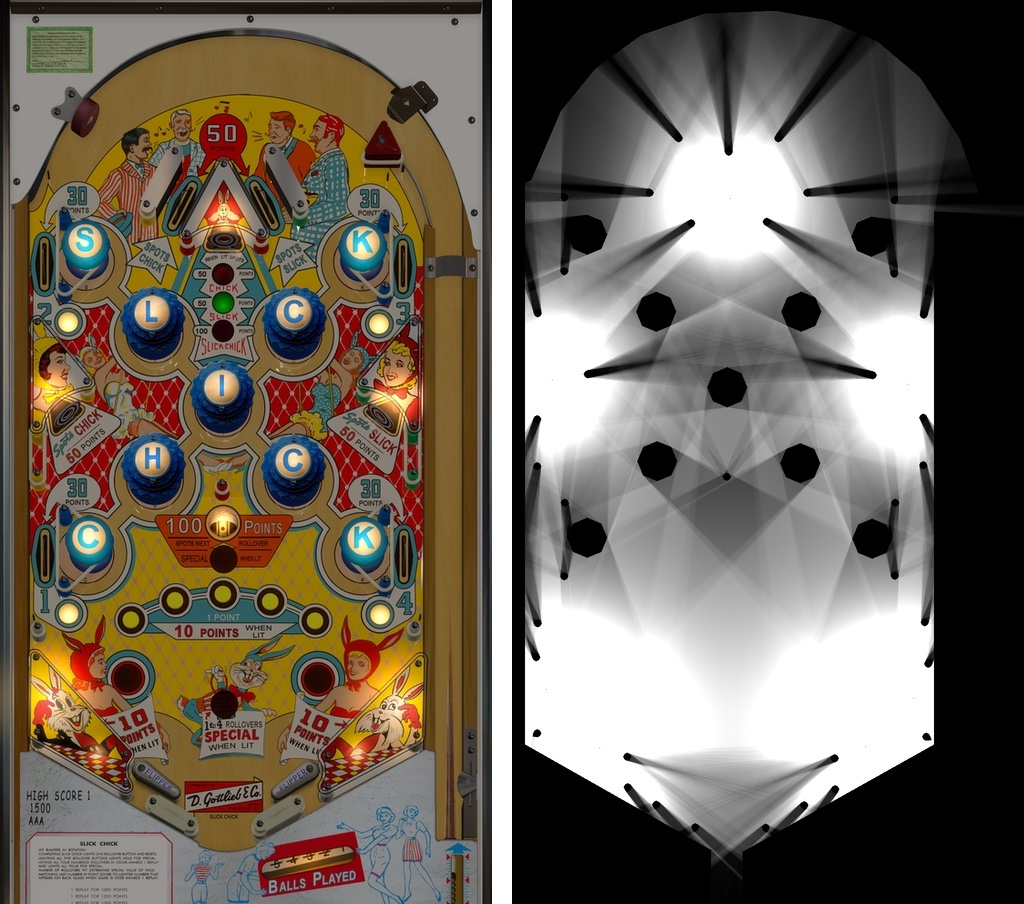
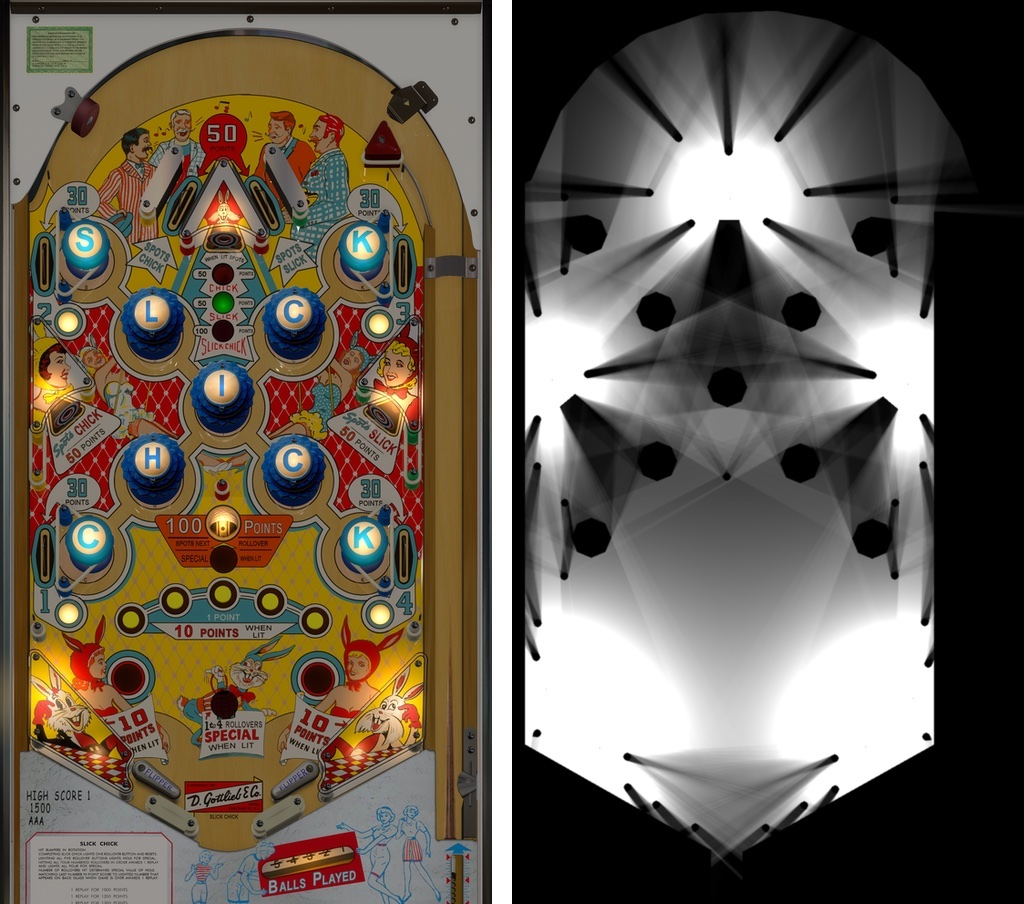
Fixed shadows.

Changed region(s): [[0.5312, 0.2168, 0.875, 0.8982], [0.5312, 0.3407, 0.5625, 0.3717], [0.5, 0.8053, 0.5312, 0.8363]]

diff --git a/Shadowdrome/Obstacle.c b/Shadowdrome/Obstacle.c
@@ -128,6 +128,103 @@ Obstacle *obstacleCreateRectangluarPrism (double x0, double y0, double x1, doubl
 	return obstacle;
 }
 
+Obstacle *obstacleCreateRotatedRectangularPrism (double x, double y, double width, double height, double rotationDegrees) {
+	Obstacle *obstacle = malloc (sizeof(Obstacle));
+	obstacle->xLoc = x;
+	obstacle->yLoc = y;
+	
+	obstacle->minX = x;
+	obstacle->minY = y;
+	obstacle->maxX = x;
+	obstacle->maxY = y;
+	
+	obstacle->numVertices = 4;
+	obstacle->vertexArray = malloc (sizeof(double) * obstacle->numVertices * 2);
+	double *vertexPtr = obstacle->vertexArray;
+	double angle = rotationDegrees / 180.0 * M_PI;
+	
+//	x' = x * cos(theta) - y * sin(theta)
+//	y' = x * sin(theta) + y * cos(theta)
+	
+	double xV = ((width / 2.0) * cos (angle)) - ((-height / 2.0) * sin (angle));
+	double yV = ((width / 2.0) * sin (angle)) + ((-height / 2.0) * cos (angle));
+	*vertexPtr = x + xV;
+	if (*vertexPtr < obstacle->minX) {
+		obstacle->minX = *vertexPtr;
+	}
+	if (*vertexPtr > obstacle->maxX) {
+		obstacle->maxX = *vertexPtr;
+	}
+	vertexPtr++;
+	*vertexPtr = y + yV;
+	if (*vertexPtr < obstacle->minY) {
+		obstacle->minY = *vertexPtr;
+	}
+	if (*vertexPtr > obstacle->maxY) {
+		obstacle->maxY = *vertexPtr;
+	}
+	vertexPtr++;
+	
+	xV = ((width / 2.0) * cos (angle)) - ((height / 2.0) * sin (angle));
+	yV = ((width / 2.0) * sin (angle)) + ((height / 2.0) * cos (angle));
+	*vertexPtr = x + xV;
+	if (*vertexPtr < obstacle->minX) {
+		obstacle->minX = *vertexPtr;
+	}
+	if (*vertexPtr > obstacle->maxX) {
+		obstacle->maxX = *vertexPtr;
+	}
+	vertexPtr++;
+	*vertexPtr = y + yV;
+	if (*vertexPtr < obstacle->minY) {
+		obstacle->minY = *vertexPtr;
+	}
+	if (*vertexPtr > obstacle->maxY) {
+		obstacle->maxY = *vertexPtr;
+	}
+	vertexPtr++;
+	
+	xV = ((-width / 2.0) * cos (angle)) - ((height / 2.0) * sin (angle));
+	yV = ((-width / 2.0) * sin (angle)) + ((height / 2.0) * cos (angle));
+	*vertexPtr = x + xV;
+	if (*vertexPtr < obstacle->minX) {
+		obstacle->minX = *vertexPtr;
+	}
+	if (*vertexPtr > obstacle->maxX) {
+		obstacle->maxX = *vertexPtr;
+	}
+	vertexPtr++;
+	*vertexPtr = y + yV;
+	if (*vertexPtr < obstacle->minY) {
+		obstacle->minY = *vertexPtr;
+	}
+	if (*vertexPtr > obstacle->maxY) {
+		obstacle->maxY = *vertexPtr;
+	}
+	vertexPtr++;
+	
+	xV = ((-width / 2.0) * cos (angle)) - ((-height / 2.0) * sin (angle));
+	yV = ((-width / 2.0) * sin (angle)) + ((-height / 2.0) * cos (angle));
+	*vertexPtr = x + xV;
+	if (*vertexPtr < obstacle->minX) {
+		obstacle->minX = *vertexPtr;
+	}
+	if (*vertexPtr > obstacle->maxX) {
+		obstacle->maxX = *vertexPtr;
+	}
+	vertexPtr++;
+	*vertexPtr = y + yV;
+	if (*vertexPtr < obstacle->minY) {
+		obstacle->minY = *vertexPtr;
+	}
+	if (*vertexPtr > obstacle->maxY) {
+		obstacle->maxY = *vertexPtr;
+	}
+//	vertexPtr++;
+	
+	return obstacle;
+}
+
 Obstacle *obstacleCreateCylinder (double x, double y, double radius) {
 	Obstacle *obstacle = malloc (sizeof(Obstacle));
 	obstacle->xLoc = x;

diff --git a/Shadowdrome/AppDelegate.m b/Shadowdrome/AppDelegate.m
@@ -53,6 +53,11 @@ SDContext *shadowContext;
 //	sdContextAddObstacle (shadowContext, obstacleCreateCylinder (150, 1099, 40));
 	sdContextAddObstacle (shadowContext, obstacleCreateCylinder (720, 1101, 40));
 	
+	// Targets.
+	sdContextAddObstacle (shadowContext, obstacleCreateRotatedRectangularPrism (111, 825, 40, 2, -40));
+	sdContextAddObstacle (shadowContext, obstacleCreateRotatedRectangularPrism (756, 830, 40, 2, 40));
+	sdContextAddObstacle (shadowContext, obstacleCreateRotatedRectangularPrism (434, 465, 40, 2, 0));
+
 	// Pegs
 	sdContextAddObstacle (shadowContext, obstacleCreateCylinder (333, 300, 8));
 	sdContextAddObstacle (shadowContext, obstacleCreateCylinder (275, 409, 8));
@@ -245,9 +250,9 @@ SDContext *shadowContext;
 	// Create ShadowContext.
 	shadowContext = sdContextCreate (1024, 2048);
 	
-	[self test0];
+//	[self test0];
 //	[self addKingOfDiamondsLightsAndObstacles];
-//	[self addSlickChickLightsAndObstacles];
+	[self addSlickChickLightsAndObstacles];
 	
 	[self renderPlayfield];
 }

diff --git a/Shadowdrome/Obstacle.h b/Shadowdrome/Obstacle.h
@@ -25,6 +25,10 @@ Obstacle *obstacleCreateQuadPrism (double x0, double y0, double x1, double y1, d
 // Pass top left corner (x0, y0) and bottom right corner (x1, y1).
 Obstacle *obstacleCreateRectangluarPrism (double x0, double y0, double x1, double y1);
 
+// Pass center (x, y), width, height and rotation (in degrees) of the rectabgular prism.
+Obstacle *obstacleCreateRotatedRectangularPrism (double x, double y, double width, double height, double rotationDegrees);
+
+// Pass the center (x, y), and raius of the cylinder.
 Obstacle *obstacleCreateCylinder (double x, double y, double radius);
 
 
